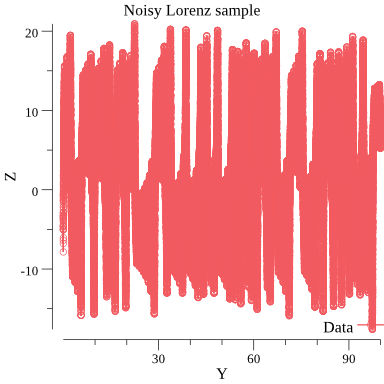
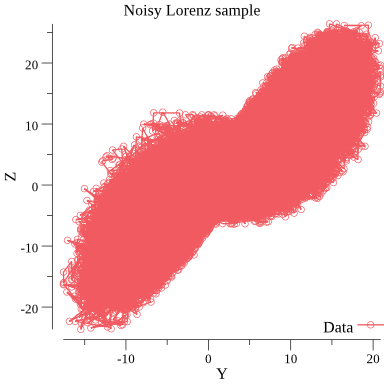
Fixes the SVD dimension bug

diff --git a/main.go b/main.go
@@ -1,7 +1,6 @@
 package main
 
 import (
-	"fmt"
 	"log"
 )
 
@@ -21,8 +20,8 @@ func main() {
 	}
 
 	const (
-		rowLength       = 1000
-		numberOfSVGRows = 3
+		rowLength   = 5000
+		vectorCount = 3
 	)
 
 	var singleVarStream []float64
@@ -30,30 +29,34 @@ func main() {
 		singleVarStream = append(singleVarStream, tuple[1])
 	}
 
-	s, u, v, err := henkelSVD(singleVarStream, rowLength)
+	// s, u, v, err := henkelSVD(singleVarStream, rowLength)
+	_, _, v, err := henkelSVD(singleVarStream, rowLength)
 	if err != nil {
 		log.Fatalf("Failed to perform SVD on data: %v\n", err)
 	}
 
 	var lorenzSVGData [][]float64
-	for i := 0; i < numberOfSVGRows; i++ {
+	rowCount, colCount := v.Dims()
+	if vectorCount > colCount {
+		log.Fatalf("Requested more dimensions than SVD returned: %v, %v\n", colCount, vectorCount)
+	}
+	for row := 0; row < rowCount; row++ {
 		lorenzSVGData = append(lorenzSVGData, []float64{})
-		currentVec := v.ColView(i)
-		for row := 0; row < currentVec.Len(); row++ {
-			// these are vectors, so row/col are swapped now
-			lorenzSVGData[i] = append(lorenzSVGData[i], currentVec.At(row, 0))
+		currentRow := v.RowView(row)
+		for col := 0; col < vectorCount; col++ {
+			lorenzSVGData[row] = append(lorenzSVGData[row], currentRow.At(col, 0))
 		}
 	}
 
 	formattedSVGLorenz := formatPlotData(lorenzSVGData)
-	err = createSVG(formattedSVGLorenz, "Lorenz after SVG", "svd-lorenz.png", "Y", "Z")
+	err = createSVG(formattedSVGLorenz, "Lorenz after SVD", "svd-lorenz.png", "Y", "Z")
 	if err != nil {
 		log.Fatalf("Create sample plot failed with error: %v", err)
 	}
 
-	fmt.Printf("s: %v\n", s)
-	fmt.Printf("u: %v\n", u)
-	fmt.Printf("%v\n", lorenzSVGData)
+	// fmt.Printf("s: %v\n", s)
+	// fmt.Printf("u: %v\n", u)
+	// fmt.Printf("%v\n", lorenzSVGData)
 }
 
 // requirements:

diff --git a/plot.go b/plot.go
@@ -12,8 +12,8 @@ import (
 func formatPlotData(data [][]float64) plotter.XYs {
 	pts := make(plotter.XYs, len(data))
 	for i := range pts {
-		pts[i].X = data[i][0]
-		pts[i].Y = data[i][1]
+		pts[i].X = data[i][1]
+		pts[i].Y = data[i][2]
 		// pts[i].Z = data[i][2]
 	}
 	return pts
